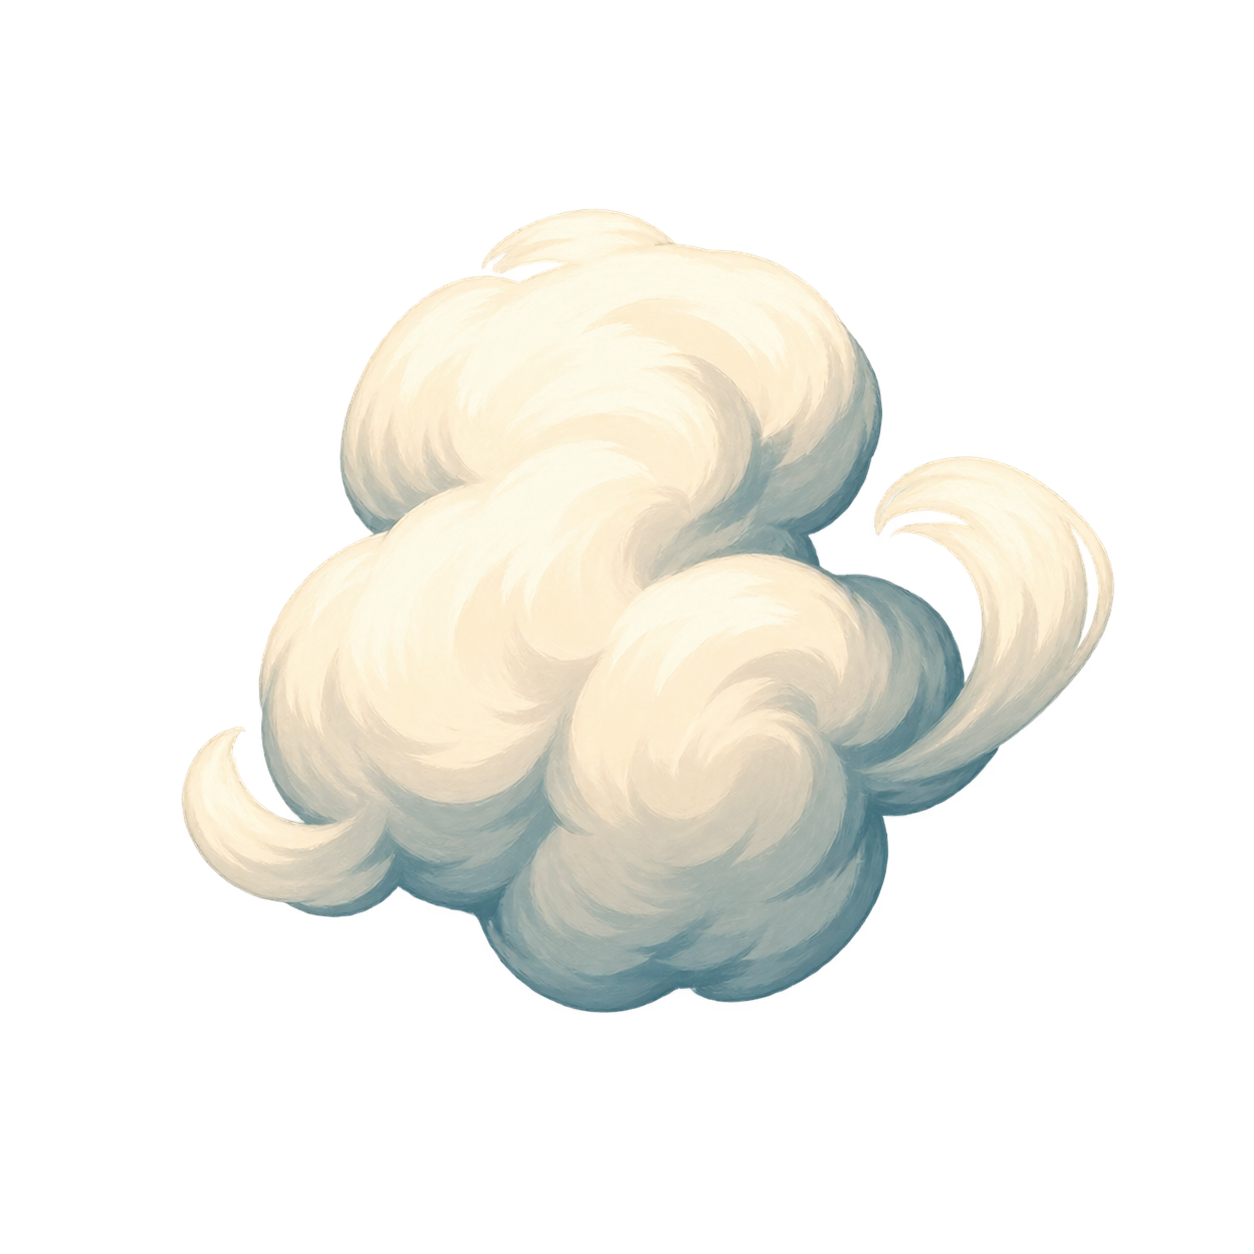
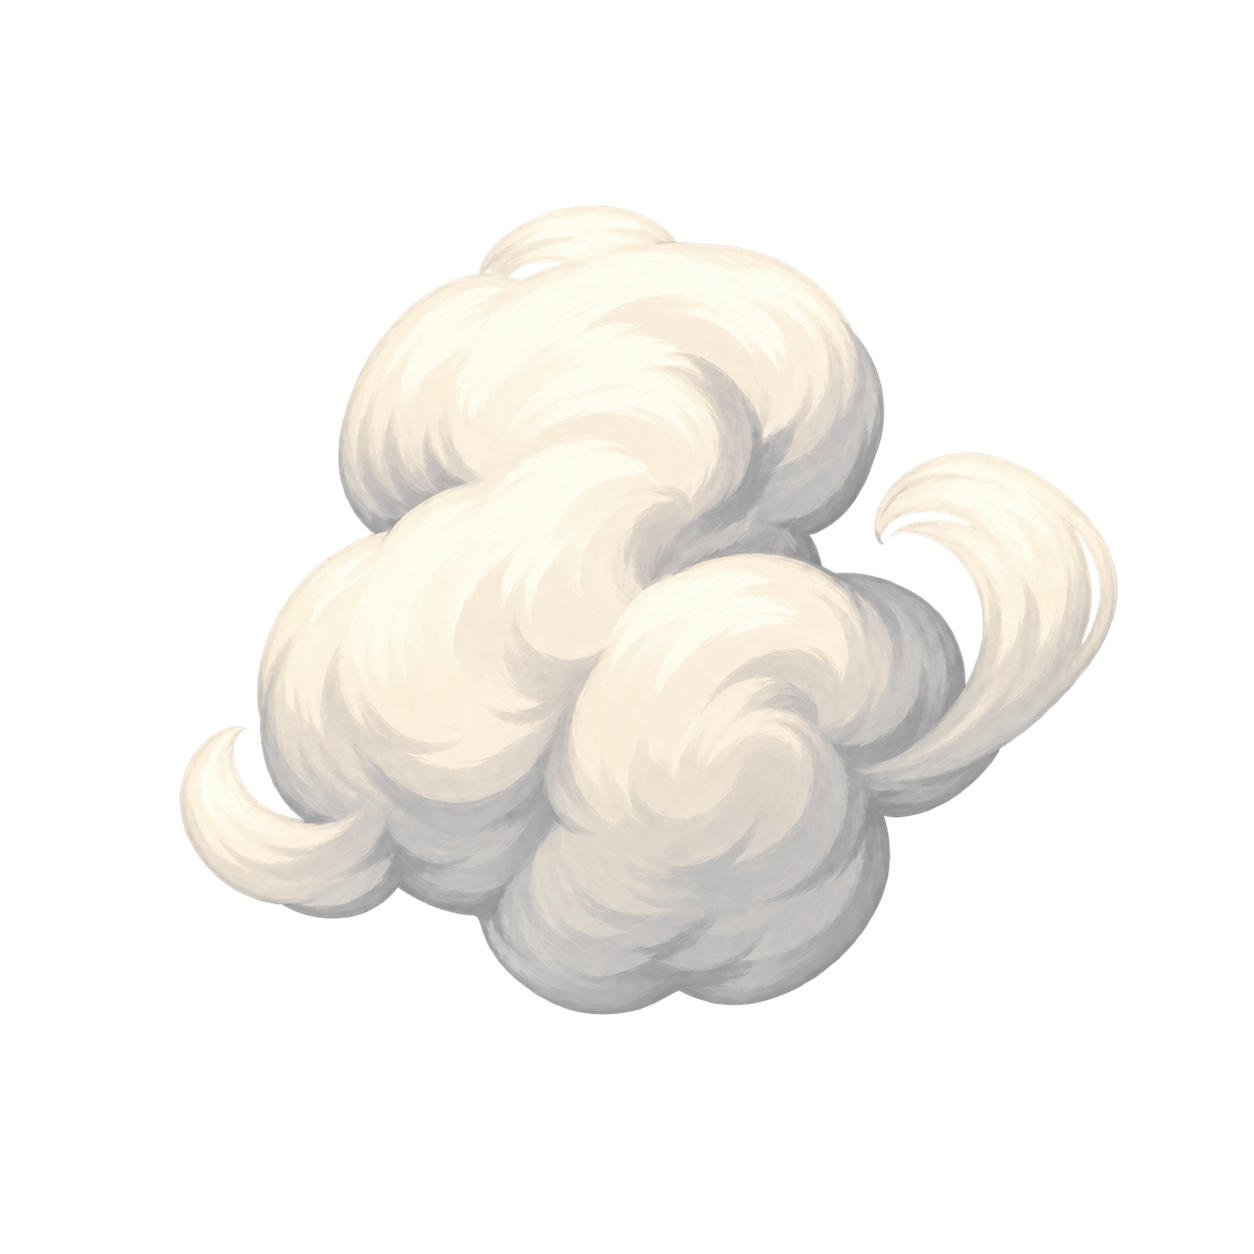
Neutralize match smoke palette

diff --git a/docs/milestones/M07_ART_FOUNDATION.md b/docs/milestones/M07_ART_FOUNDATION.md
@@ -589,7 +589,7 @@ Produce or prototype:
 
 Goal: establish the arcade and anime feedback loop.
 
-Current status: in progress. Pair collision uses a restrained six-particle radial smoke burst with larger, independently moving tufts for gameplay-scale readability. Its full-resolution transparent master lives under `art-source/fx/`; runtime particles share one compact `64 x 64` tuft texture. A startup-warmed pool of two one-shot CPU emitters supports overlapping matches without match-time node construction, central cloud stamps, radial blast drawing, or per-frame GDScript work. The responsive effect transform defaults to `1.30x` while particle count, texture, lifetime, and pool size remain unchanged. This path avoids the first-use GPU-particle stalls measured on the Pixel reference device. Richer reusable FX remain outstanding.
+Current status: in progress. Pair collision uses a restrained six-particle radial smoke burst with larger, independently moving neutral ivory/gray tufts for gameplay-scale readability. Its full-resolution transparent master lives under `art-source/fx/`; runtime particles share one compact `64 x 64` tuft texture and an RGB-neutral alpha fade. A startup-warmed pool of two one-shot CPU emitters supports overlapping matches without match-time node construction, central cloud stamps, radial blast drawing, or per-frame GDScript work. The responsive effect transform defaults to `1.30x` while particle count, texture, lifetime, and pool size remain unchanged. This path avoids the first-use GPU-particle stalls measured on the Pixel reference device. Richer reusable FX remain outstanding.
 
 ### Batch D - Personality
 
